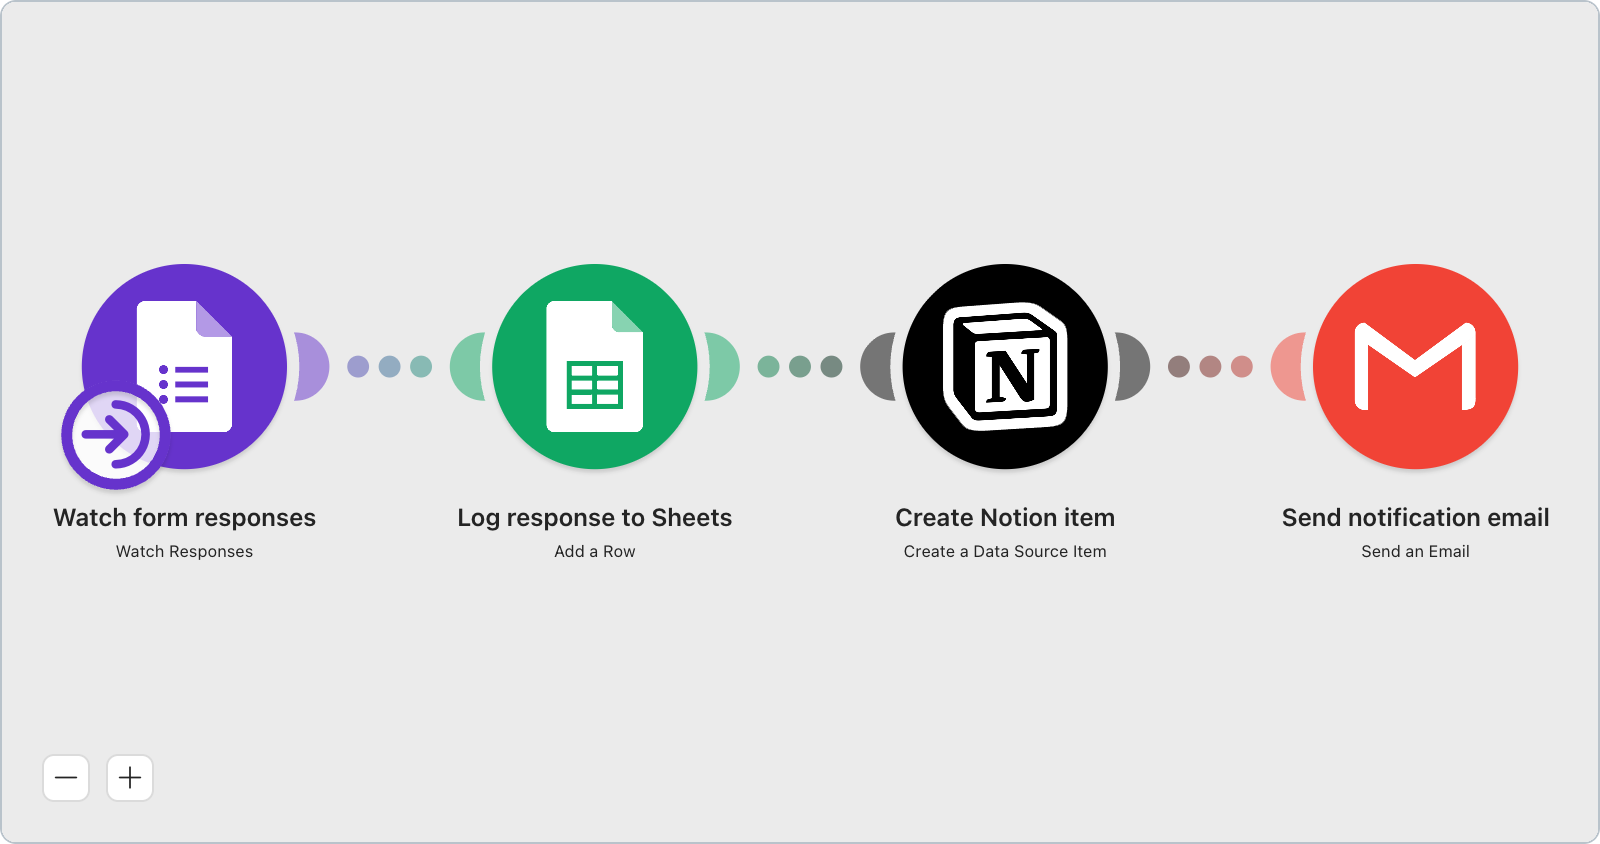
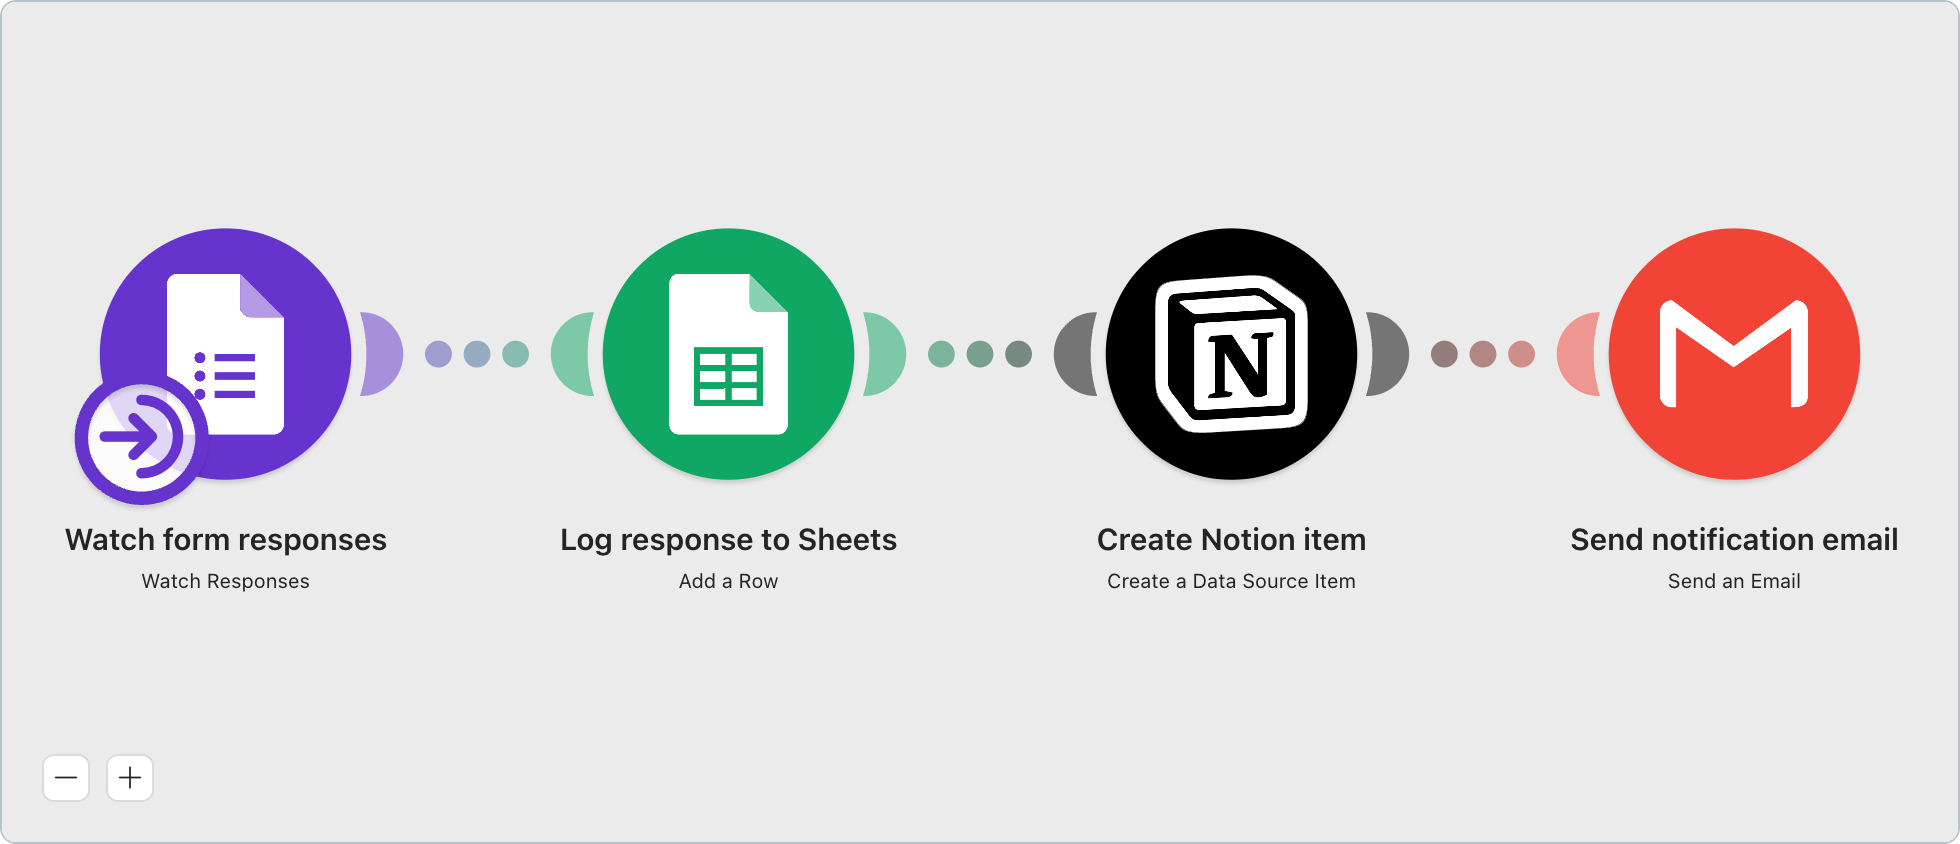
feat: social preview card, wider canvas captures
Recapture every canvas at a viewport wide enough that no module label
is clipped, and shorten one label that Make itself cut off.

Claude-Session: https://claude.ai/code/session_01UzzsEscBdi7XTmLye9rxNm

diff --git a/scripts/social-card.html b/scripts/social-card.html
@@ -1,0 +1,20 @@
+<!doctype html><meta charset="utf-8">
+<style>
+  * { margin:0; padding:0; box-sizing:border-box; }
+  body { width:1280px; height:640px; background:#fff; font:400 16px/1.4 -apple-system,BlinkMacSystemFont,'Segoe UI',Helvetica,Arial,sans-serif; color:#111; display:flex; flex-direction:column; padding:56px 60px; }
+  h1 { font-size:56px; font-weight:800; letter-spacing:-0.025em; }
+  p.sub { font-size:26px; color:#4a4a4a; margin-top:14px; }
+  .shots { flex:1; display:flex; gap:18px; align-items:center; margin:36px 0 0; }
+  .shots img { width:100%; border:1px solid #e3e3e3; border-radius:12px; }
+  .shots div { flex:1; }
+  footer { display:flex; justify-content:space-between; align-items:center; font-size:22px; color:#6a6a6a; padding-top:26px; }
+  b { color:#111; }
+</style>
+<h1>awesome-make-templates</h1>
+<p class="sub">Importable Make.com blueprints — canvas screenshot, connection checklist, real cost per run.</p>
+<div class="shots">
+  <div><img src="file:///Users/namvippro/Code/aitofy/awesome-make-templates/templates/google-forms-to-notion/canvas.png"></div>
+  <div><img src="file:///Users/namvippro/Code/aitofy/awesome-make-templates/templates/sheets-openai-draft/canvas.png"></div>
+  <div><img src="file:///Users/namvippro/Code/aitofy/awesome-make-templates/templates/sheets-to-slack-digest/canvas.png"></div>
+</div>
+<footer><span><b>make-templates.aitofy.dev</b></span><span>MIT · no email gate · no paid tier</span></footer>
